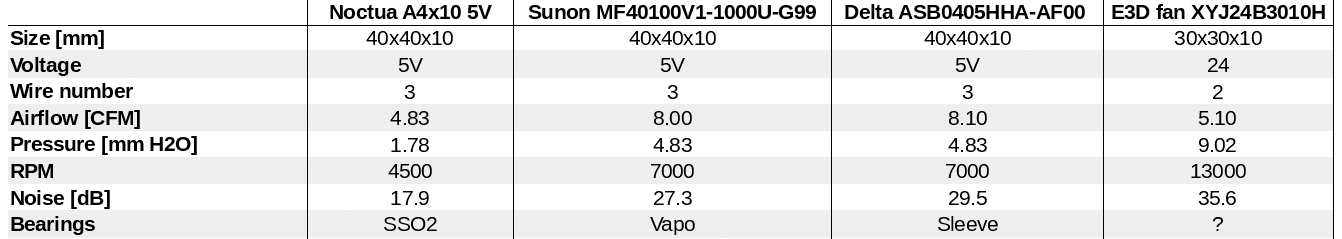
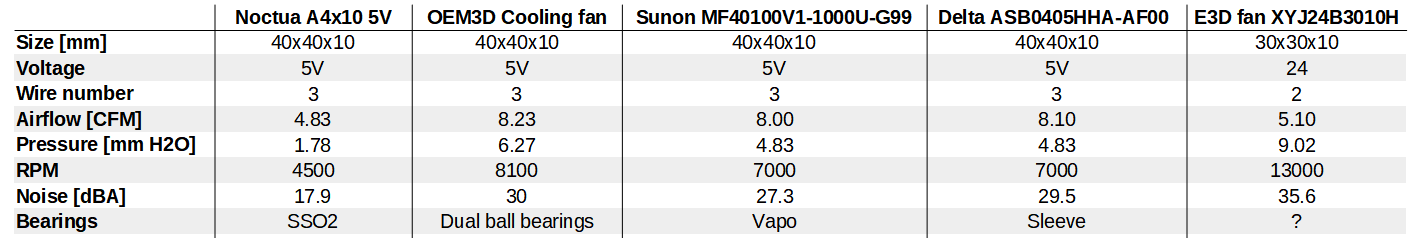
include OEM3D fan

diff --git a/optional_parts/hotend_fan/README.md b/optional_parts/hotend_fan/README.md
@@ -8,9 +8,10 @@ On the table below, we can see that the original E3D v6 fan has 5.07 times more 
 
 Less heatsink cooling allows the filament to melt higher in the heatbreak. This may affect the consistency of layer deposition and increase the risk of clogging. Increase of stringing might be another artefact of a higher heatsink temperature.
 
-Fortunately, there are *almost* drop-in replacements for the Noctua from both Sunon and Delta which are more powerful but more noisier (you cannot get more pressure with same noise level...) :
+Fortunately, there are *almost* drop-in replacements for the Noctua from OEM3D, Sunon and Delta which are more powerful but more noisier (you cannot get more pressure with same noise level...) :
+  * [OEM3D Hotend cooling fan](https://www.oem3d.com/products/oem3d-hotend-cooling-fan-for-mk3s-mk2-5s) (the most powerful)
   * Sunon MF40100V1-1000U-G99
-  * Delta ASB0405HHA-AF00
+  * Delta ASB0405HHA-AF00 (despite similar specs, a bit lower than Sunon)
 
 Some distributors are selling the Sunon as a drop-in replacement with correct cable length and connector. However, you could source the fan on your own providing a cable and crimping a connector. The total cable length needs to be 700mm long. We recommend AWG 26 wire. The connector used on the RAMBo is Molex SL 70066 and contacts are Molex SL 70058.
 
